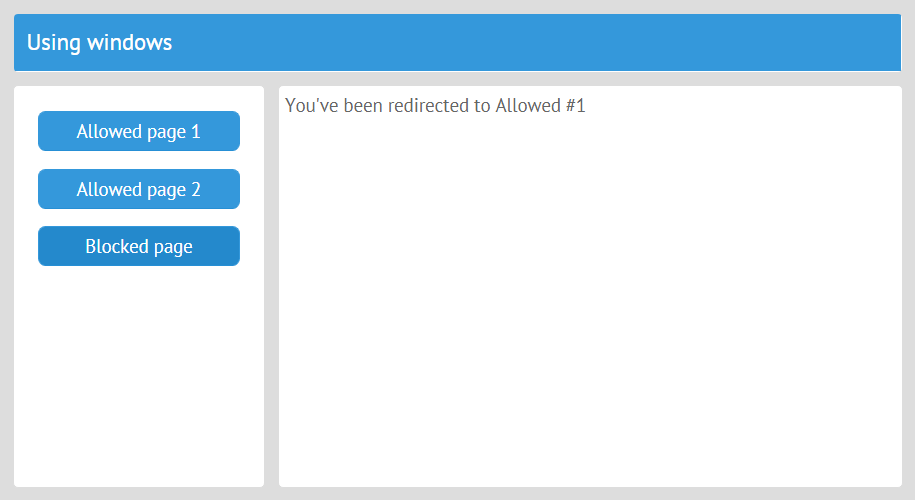
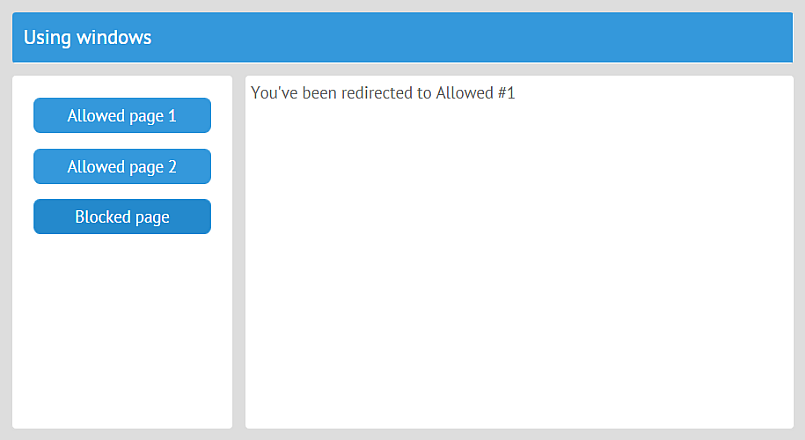
[fix] pictures resized, one more added

diff --git a/details/plugins.md b/details/plugins.md
@@ -73,6 +73,8 @@ export default class ToolbarView extends JetView {
 
 The **UnloadGuard** plugin can be used to prevent users from leaving the view on some conditions. For example, this can be useful in the case of forms with unsaved data. The plugin can intercept the event of leaving the current view and, e.g. show the *are you sure* dialogue. Besides, it can be used for input validation.
 
+![](../images/unload.png)
+
 The plugin reacts to an attempt of changing the URL. The syntax for using a plugin is _this.use\(plugin,handler\)_. Use takes two parameters:
 
 * a plugin name
